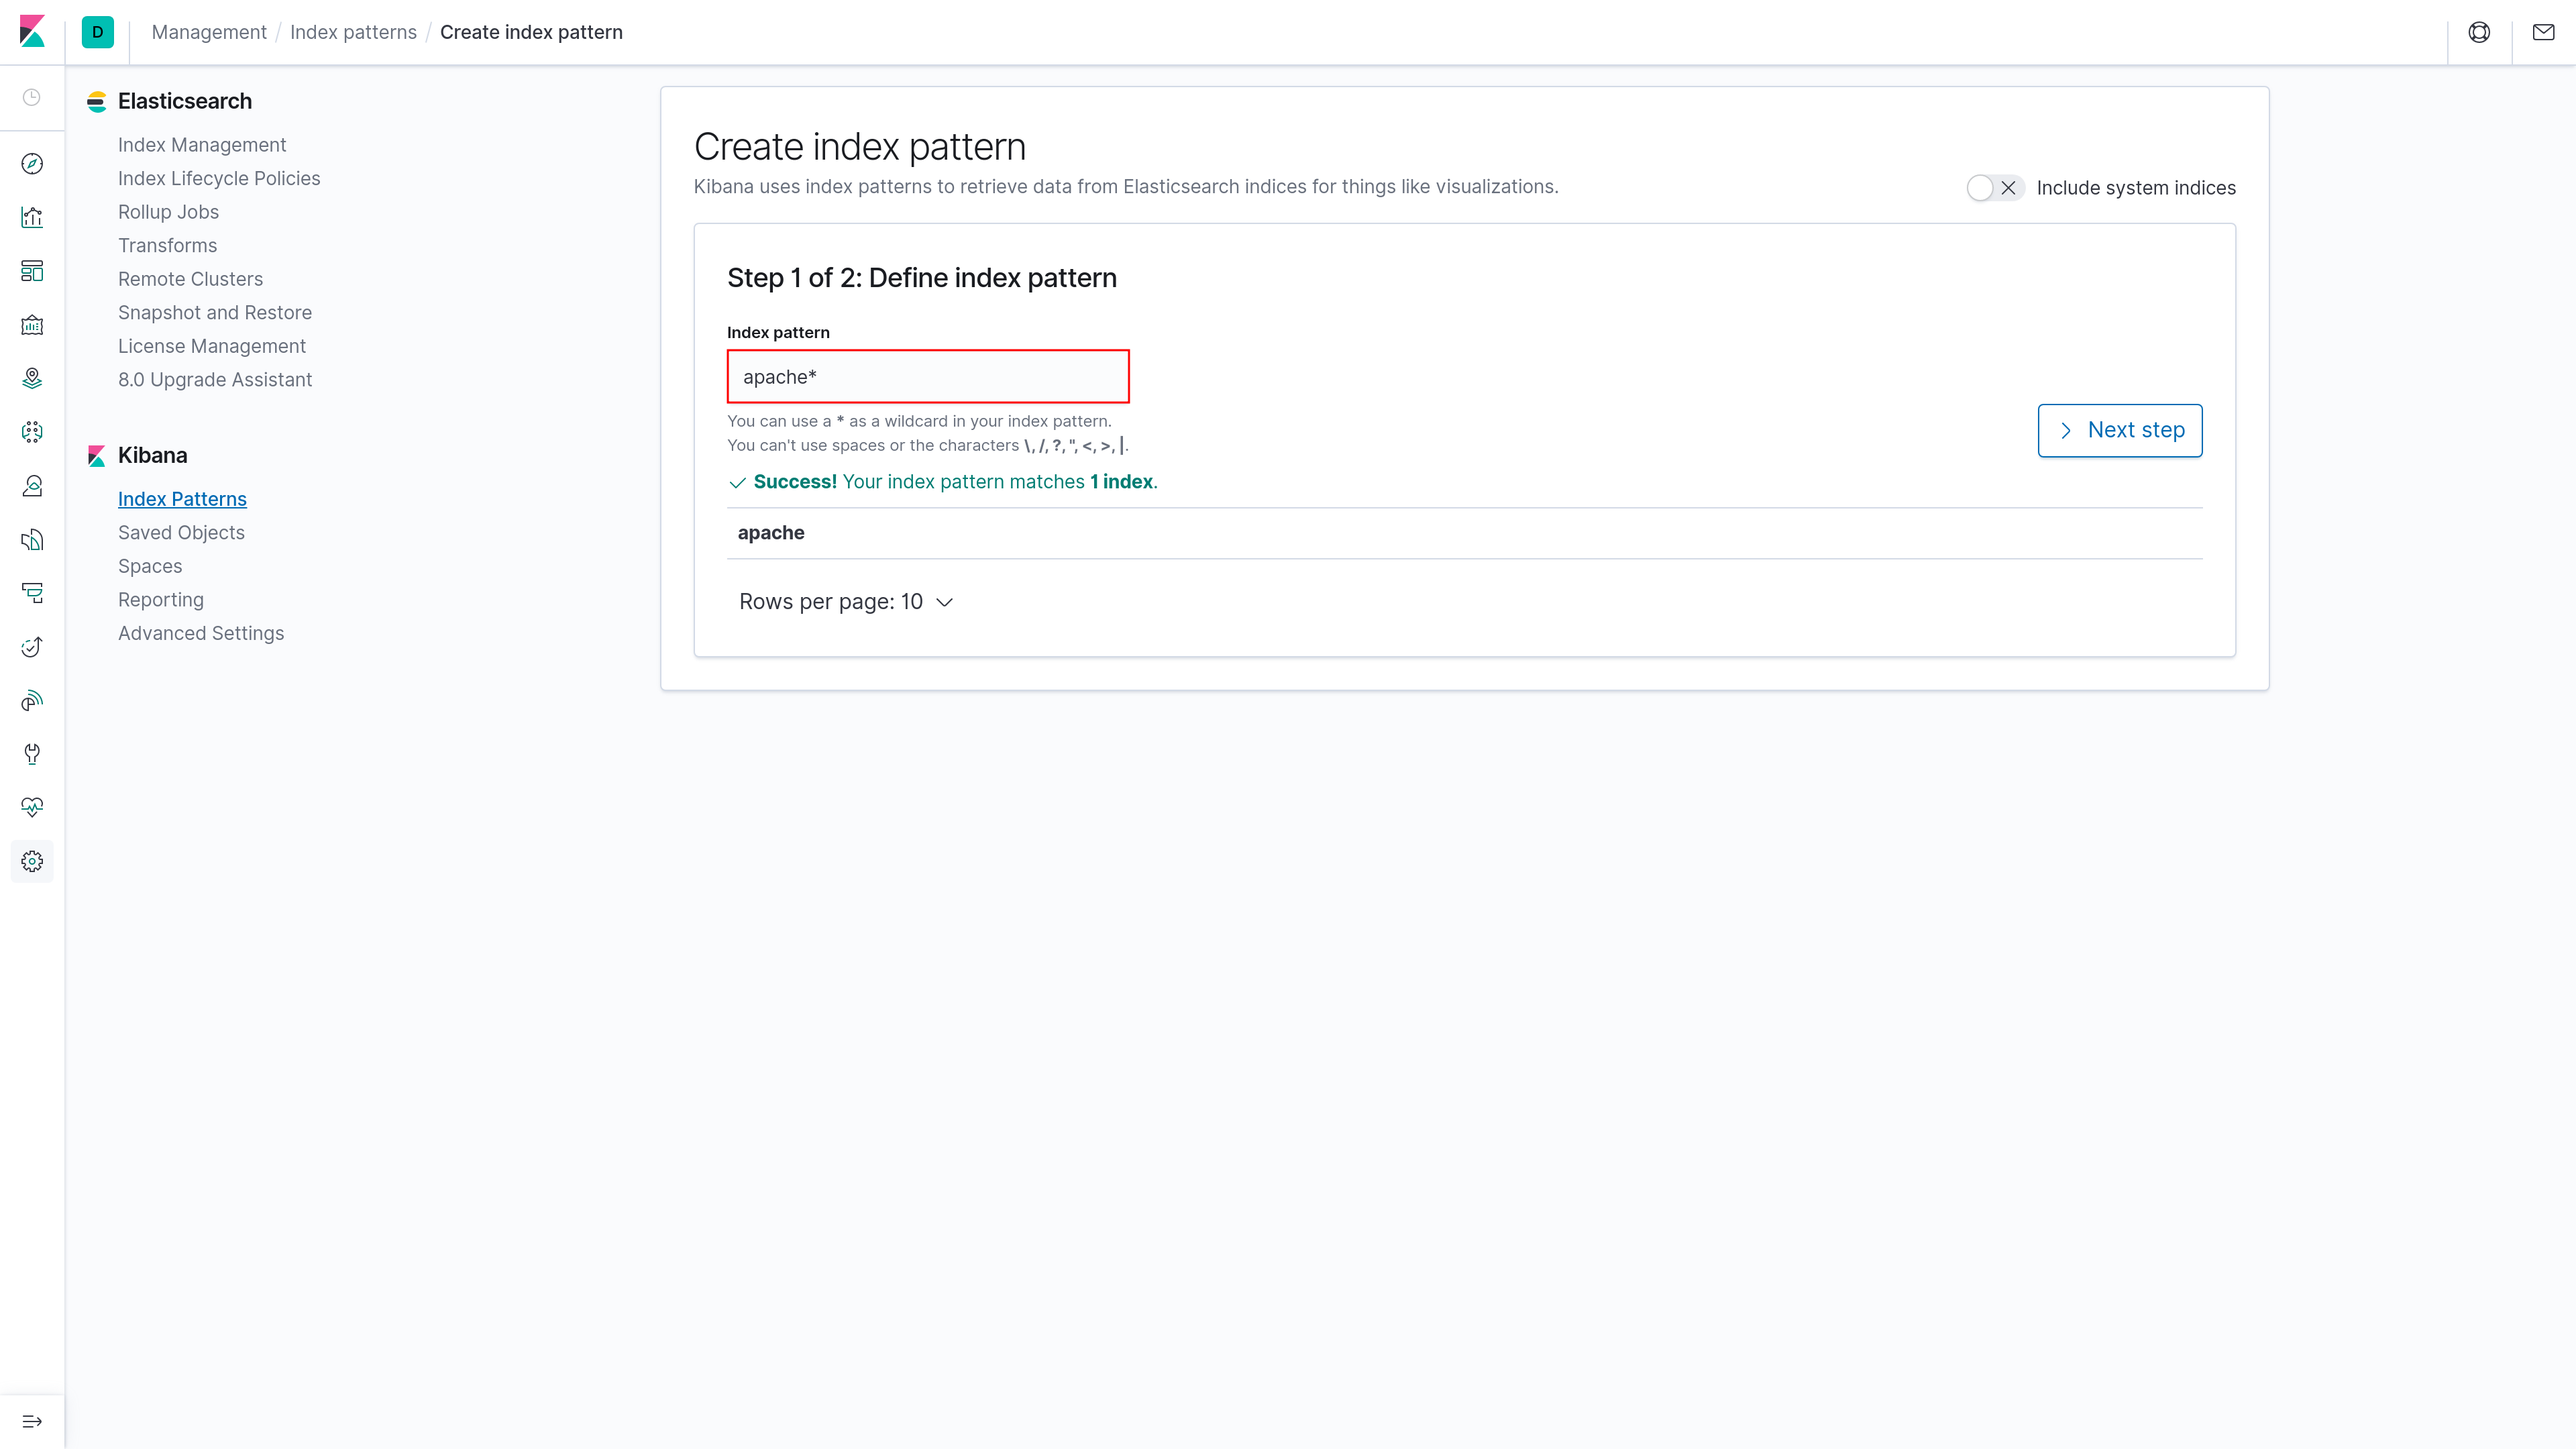
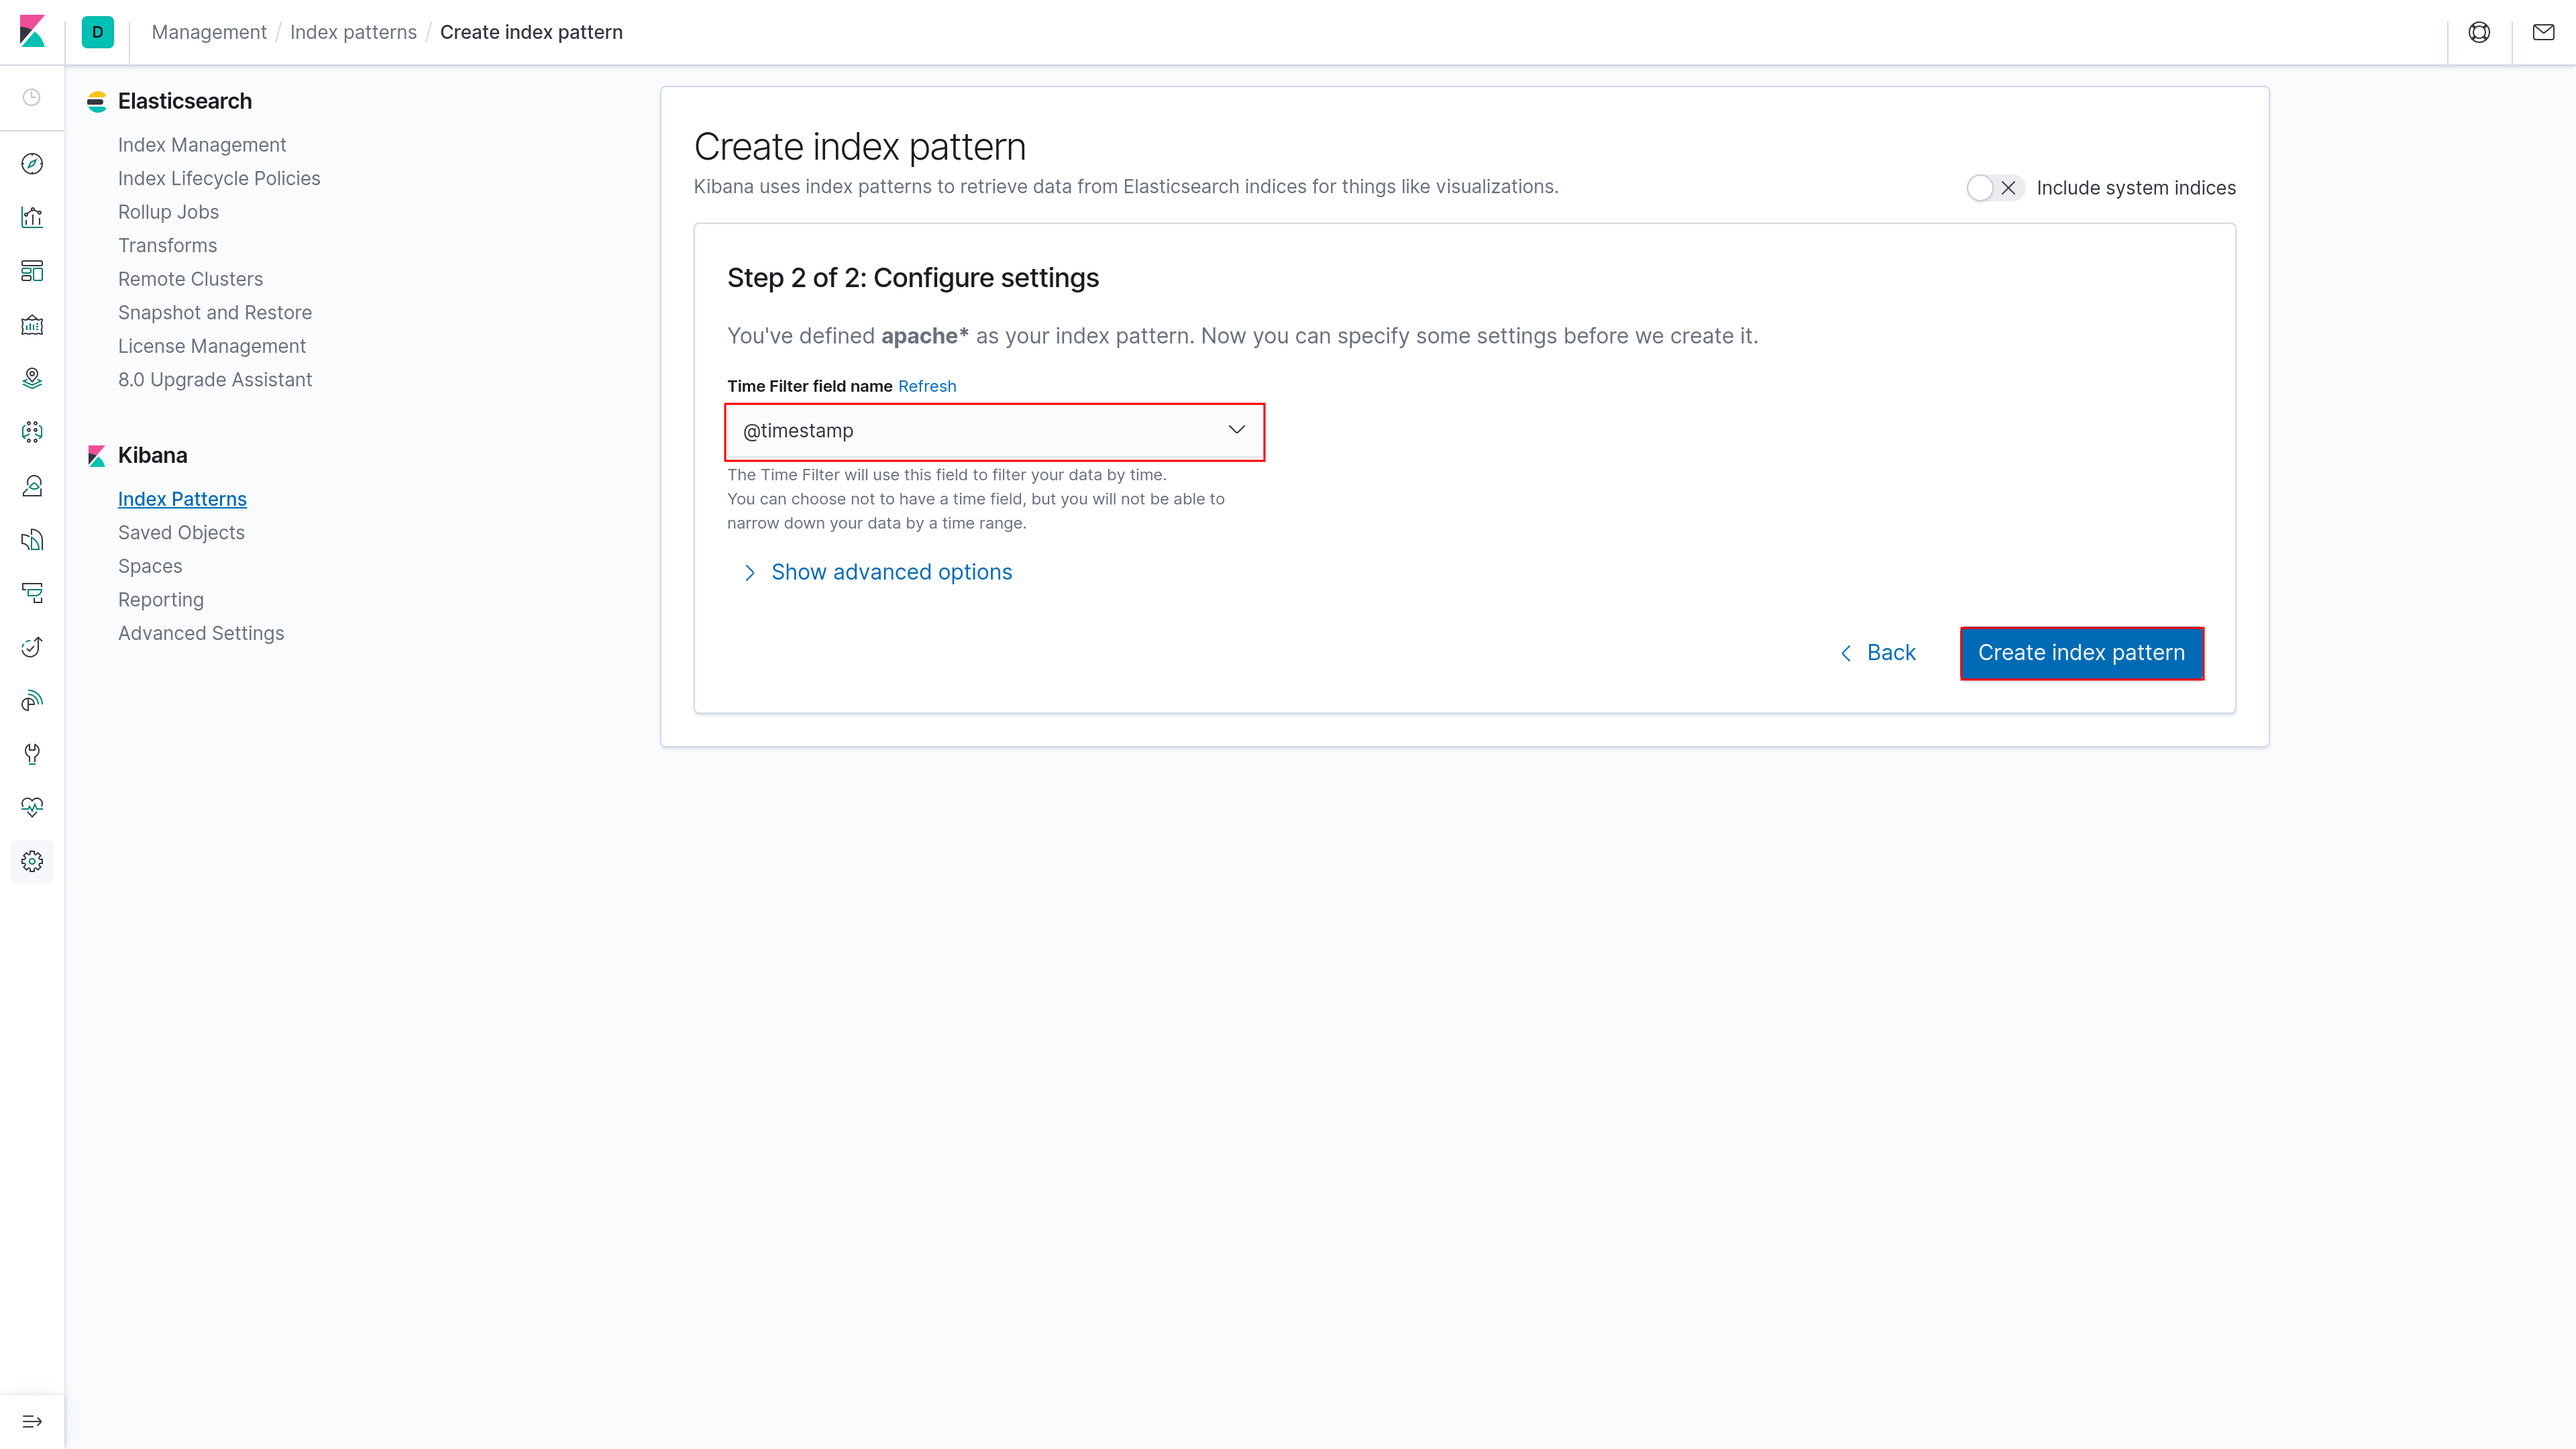
feat: apache

Changed region(s): [[0.2812, 0.1861, 0.6562, 0.4343], [0.2812, 0.4343, 0.875, 0.4963], [0.8125, 0.2792, 0.8438, 0.3102]]

diff --git a/content/ko/docs-7.6/웹 서버/apache.md b/content/ko/docs-7.6/웹 서버/apache.md
@@ -53,7 +53,9 @@ description: >
   
   # 없다면 추가
   LogFormat "%v:%p %h %l %u %t \"%r\" %>s %O \"%{Referer}i\" \"%{User-Agent}i\"" vhost_combined
-  CustomLog logs/access_log vhost_combined
+  
+  # Virtual Host 태그 안에 추가
+  CustomLog logs/access.log vhost_combined
   ```
 
   
@@ -230,6 +232,10 @@ description: >
      #ssl.key: "/etc/pki/client/cert.key"
    ```
 
+## Index 초기 설정
+
+ Index에 데이터를 넣으면 기본적으로 keyword(string) 형식으로 들어갑니다. 그래서 시간, 위치 정보 등의 필드들은 미리 설정해두어야 합니다. 
+
 ## Logstash 설정
 
  앞서 Logstash를 설치했지만 Logstash의 설정은 어떤 데이터를 처리하느냐에 따라 달라지기 때문에 하지 않았습니다. Apache의 로그 데이터를 가공해서 Elasticsearch 저장할 수 있도록 Logstash를 설정합니다.
@@ -246,7 +252,7 @@ input {
   }
 }
 filter {
-  if [fileset][module] == "apache2" {
+  if [event][module] == "apache" {
     if [fileset][name] == "access" {
       grok {
         match => { "message" => ["%{IPORHOST:[apache2][access][remote_ip]} - %{DATA:[apache2][access][user_name]} \[%{HTTPDATE:[apache2][access][time]}\] \"%{WORD:[apache2][access][method]} %{DATA:[apache2][access][url]} HTTP/%{NUMBER:[apache2][access][http_version]}\" %{NUMBER:[apache2][access][response_code]} %{NUMBER:[apache2][access][body_sent][bytes]}( \"%{DATA:[apache2][access][referrer]}\")?( \"%{DATA:[apache2][access][agent]}\")?",
@@ -294,9 +300,41 @@ output {
     hosts => localhost
     manage_template => false
     index => "apache"
-  }
+  }를
 }
 ```
+
+## Index 초기 설정
+
+ Elasticsearch에 데이터를 저장하면 기본 keyword(string) 형식으로 들어갑니다. 시간, 위치, 숫자 형식 등의 특별한 형식을 집어넣기 위해선 해당 index에 초기 설정을 해야합니다. 아래는 Apache의 로그 데이터를 저장하기 위해서 index의 초기 설정을 하는 방법입니다.
+
+1. 연결된 Elasticsearch에 index 초기 설정 쿼리를 보냅니다.
+
+3. ```
+   PUT apache
+   {
+     "mappings": { 
+       "properties": {
+         "apache2.access.geoip.location": { 
+           "type": "geo_point"
+         },
+         "apache2.access.time" : {
+           "type": "date"
+         },
+         "apache2.access.response_code": { 
+           "type": "integer"
+         },
+         "apache2.error.timestamp": {
+           "type": "date"
+         }
+       }
+     }
+   }
+   ```
+
+   ![Kibana index setting](/images/7.6/kibana-index-setting-1.png)
+
+   ![Kibana index setting](/images/7.6/kibana-index-setting-2.png)
 
 ## Logstash, Filebeat 실행
 
@@ -304,7 +342,7 @@ output {
 sudo systemctl enable --now logstash filebeat
 ```
 
-## Index 패턴 생성하기
+## Index 패턴 생성
 
  Elasticsearch에서 저장된 데이터를 사용하기 전에 index 식별과 필드의 설정을 위해서 반드시 index 패턴을 생성해야 합니다. 아래는 위 설정으로 저장된 Apache의 로그 데이터 index의 index 패턴을 생성하는 방법입니다.
 
@@ -314,31 +352,35 @@ sudo systemctl enable --now logstash filebeat
 
 2. Kibana의 왼쪽 메뉴에서 Dev Tools 버튼을 클릭합니다.
 
+   ![Kibana dev tools 1](/images/7.6/kibana-dev-tool.png)
+
+3. 연결된 Elasticsearch에 데이터가 정상적으로 저장되고 있는지 확인하는 쿼리를 보냅니다. 하나 이상의 document라도 있다면 데이터의 입력이 시작된 것입니다.
+
+   ```
+   GET apache/_count
+   ```
+
    ![Kibana dev tools 1](/images/7.6/kibana-make-pattern-1.png)
 
-3. 연결된 Elasticsearch에 데이터가 정상적으로 저장되고 있는지 확인하는 쿼리를 보냅니다.
-
-   ![Kibana dev tools 1](/images/7.6/kibana-make-pattern-2.png)
-
-   ![Kibana dev tools 1](/images/7.6/kibana-make-pattern-3.png)
+   ![Kibana dev tools 2](/images/7.6/kibana-make-pattern-2.png)
 
 4. 다음과 같이 document의 개수가 확인되었다면 index 패턴을 생성하기 위해 왼쪽 메뉴에서 Management 버튼을 클릭합니다. 그 후 Kibana 아래 Index Patterns 버튼을 클릭합니다.
 
-   ![Kibana management 1](/images/7.6/kibana-make-pattern-4.png)
+   ![Kibana management 3](/images/7.6/kibana-make-pattern-3.png)
 
-   ![Kibana management 2](/images/7.6/kibana-make-pattern-5.png)
+   ![Kibana management 4](/images/7.6/kibana-make-pattern-4.png)
 
 5. Create index pattern 버튼을 클릭해서 index 패턴 생성을 시작합니다.
 
-   ![Kibana management 3](/images/7.6/kibana-make-pattern-6.png)
+   	![Kibana management 5](/images/7.6/kibana-make-pattern-5.png)
 
 6. Index 이름을 입력하고 Next step을 클릭합니다. 와일드카드 문자도 사용 가능합니다.
 
-   ![Kibana management 4](/images/7.6/kibana-make-pattern-7.png)
+   ![Kibana management 6](/images/7.6/kibana-make-pattern-6.png)
 
-7. 시간 필터 필드 설정 후 Create index pattern 버튼을 클릭합니다.
+7. @timestamp로 시간 필터 필드를 설정 후 Create index pattern 버튼을 클릭합니다.
 
-   ![Kibana management 6](/images/7.6/kibana-make-pattern-8.png)
+   ![Kibana management 7](/images/7.6/kibana-make-pattern-7.png)
 
 ## Document 확인하기
 
